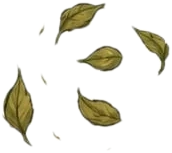
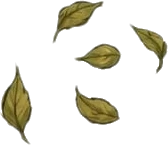
fix: bigger Pachamama in Growwy's card, clean hair edges
- Removed the white background left between the hair strands and the
  light fringe around the silhouette; leaves layer re-exported
- Bust crop now goes from the headdress to the waist; in the card she
  fills the whole height (fixed-height card, scrolling bubble), with a
  soft fade on the edge next to the text

Claude-Session: https://claude.ai/code/session_01MFEg32uSh8DJxpZ4uRCJoS

diff --git a/components/Pachamama.tsx b/components/Pachamama.tsx
@@ -8,7 +8,7 @@ import { isSpeaking, voiceLevel } from "@/lib/voz";
 // Coordinates below are pixels of the original illustration (773 × 1327).
 
 const W = 773, H = 1327;
-const LEAVES_AT = { x: 87, y: 129, w: 172, h: 153 };
+const LEAVES_AT = { x: 89, y: 131, w: 168, h: 145 };
 const LEAVES = [
   { x: 141, y: 131, w: 52, h: 43, d: 0 },
   { x: 219, y: 155, w: 38, h: 50, d: 0.7 },
@@ -22,11 +22,11 @@ const EYES = [
   { x: 392, y: 154, rx: 16, ry: 8.5, rot: -14, skin: "#985728" },
 ];
 const VIEW = {
-  bust: "70 70 520 470", // head, shoulders, raised fist and leaves (for the dashboard card)
+  bust: "100 0 460 520", // headdress to waist, raised fist and leaves (for the dashboard card)
   full: `0 0 ${W} ${H}`,
 };
 
-export function Pachamama({ state = "idle", variant = "bust", className = "" }: { state?: "idle" | "thinking" | "speaking"; variant?: "bust" | "full"; className?: string }) {
+export function Pachamama({ state = "idle", variant = "bust", fill = false, className = "" }: { state?: "idle" | "thinking" | "speaking"; variant?: "bust" | "full"; /** cover the whole box (crops the sides), anchored at the bottom */ fill?: boolean; className?: string }) {
   const svg = useRef<SVGSVGElement>(null);
   const mouth = useRef<SVGEllipseElement>(null);
   const jaw = useRef<SVGImageElement>(null);
@@ -54,7 +54,7 @@ export function Pachamama({ state = "idle", variant = "bust", className = "" }: 
 
   const id = `pm-${variant}`;
   return (
-    <svg ref={svg} viewBox={VIEW[variant]} className={`pm ${className}`} data-state={state} role="img" aria-label="Pachamama, Growwy's guide">
+    <svg ref={svg} viewBox={VIEW[variant]} preserveAspectRatio={fill ? "xMidYMax slice" : undefined} className={`pm ${className}`} data-state={state} role="img" aria-label="Pachamama, Growwy's guide">
       <defs>
         <radialGradient id={`${id}-glow`} cx="50%" cy="50%" r="50%">
           <stop offset="0" stopColor="#d9a441" stopOpacity="0.5" />
@@ -76,7 +76,7 @@ export function Pachamama({ state = "idle", variant = "bust", className = "" }: 
         ))}
       </defs>
 
-      <circle cx="350" cy={variant === "full" ? 420 : 290} r={variant === "full" ? 380 : 260} fill={`url(#${id}-glow)`} className="pm-glow" />
+      <circle cx="350" cy={variant === "full" ? 420 : 260} r={variant === "full" ? 380 : 240} fill={`url(#${id}-glow)`} className="pm-glow" />
 
       <g className="pm-breathe">
         <image href="/brand/pachamama/body.webp" width={W} height={H} />

diff --git a/components/Growwy.tsx b/components/Growwy.tsx
@@ -11,17 +11,20 @@ export function Growwy({ busy, advice }: { busy: boolean; advice: AdvisorResult 
   const say = busy ? "Let me read your field: climate, soil, water and your register…" : advice!.answer || advice!.summary;
   return (
     <div key={busy ? "busy" : "answer"} className="pm-enter relative overflow-hidden rounded-2xl border border-line bg-surface-2">
-      <div className="flex items-stretch gap-1">
-        <Pachamama state={busy ? "thinking" : "idle"} className="h-auto w-[38%] max-w-60 shrink-0 self-end" />
-        <div className="min-w-0 flex-1 py-3 pr-3">
+      {/* fixed height; the avatar box has the bust's proportions on wide screens, so she fills it without empty space */}
+      <div className="flex h-64 items-stretch gap-1">
+        <div className="relative w-[48%] max-w-[230px] shrink-0 [mask-image:linear-gradient(to_right,#000_88%,transparent)]">
+          <Pachamama state={busy ? "thinking" : "idle"} fill className="absolute inset-0 h-full w-full" />
+        </div>
+        <div className="flex min-w-0 flex-1 flex-col justify-center py-3 pr-3">
           <div className="text-[11px] font-medium uppercase tracking-[0.1em] text-subtle">Growwy · Pachamama</div>
-          <div className="relative mt-1.5 max-h-44 overflow-y-auto overscroll-contain rounded-xl rounded-bl-sm border border-line bg-surface p-2.5 text-sm leading-relaxed text-ink [scrollbar-width:thin]" tabIndex={0} aria-label="Growwy's answer">
+          <div className="relative mt-1.5 min-h-0 overflow-y-auto overscroll-contain rounded-xl rounded-bl-sm border border-line bg-surface p-2.5 text-sm leading-relaxed text-ink [scrollbar-width:thin]" tabIndex={0} aria-label="Growwy's answer">
             {busy ? (
               <span className="inline-flex items-center gap-1.5">{say}<span className="inline-flex gap-0.5" aria-hidden>{[0, 1, 2].map((i) => <span key={i} className="h-1 w-1 animate-bounce rounded-full bg-muted" style={{ animationDelay: `${i * 0.15}s` }} />)}</span></span>
             ) : say}
           </div>
           {advice && tts.soportado && (
-            <div className="mt-2 flex flex-wrap gap-1.5">
+            <div className="mt-2 flex shrink-0 flex-wrap gap-1.5">
               {tts.hablando ? (
                 <>
                   <button className="rounded-full border border-line bg-surface px-3 py-1 text-xs font-medium hover:border-ink" onClick={tts.pausar}>{tts.pausado ? "▶ Resume" : "❚❚ Pause"}</button>

diff --git a/app/globals.css b/app/globals.css
@@ -236,7 +236,7 @@ kbd {
 }
 
 /* ---------- Pachamama (Growwy's avatar) ---------- */
-.pm { overflow: visible; }
+.pm { overflow: hidden; }
 .pm .pm-breathe { transform-box: view-box; transform-origin: 386px 1327px; animation: pm-breathe 5s ease-in-out infinite; }
 .pm .pm-glow { transform-box: fill-box; transform-origin: center; animation: pm-glow 5s ease-in-out infinite; }
 .pm .pm-lid { transform-box: fill-box; transform-origin: 50% 0%; transform: scaleY(0); animation: pm-blink 5.2s infinite; }
